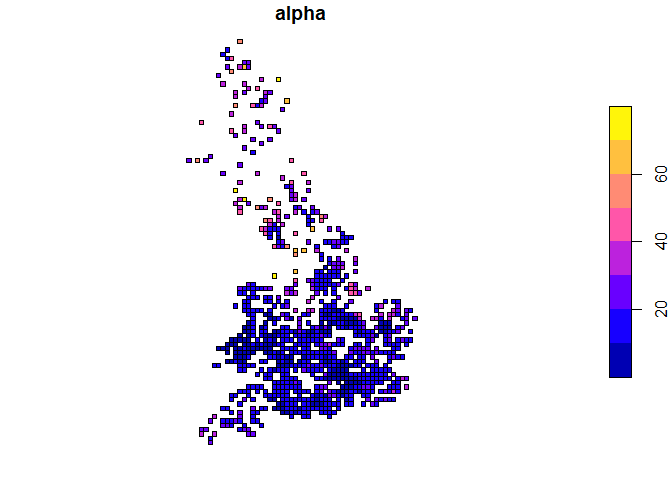
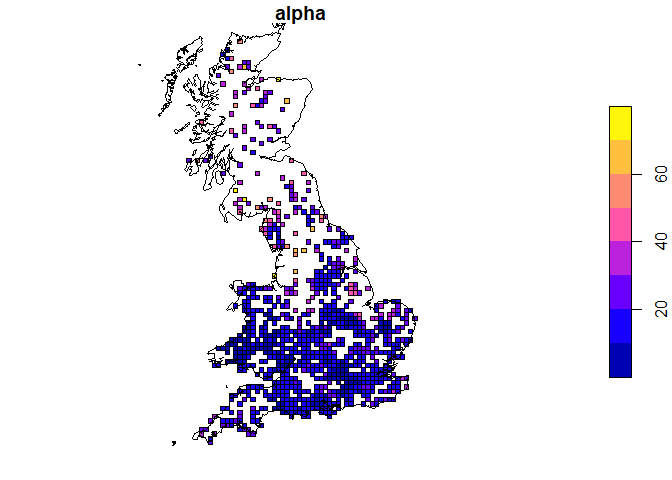
Added code to load and use GB coastline as a background layer in the maps

diff --git a/README.md b/README.md
@@ -259,6 +259,10 @@ head(out_fres[["site_time"]])
     ## 5     TR15    1 0.0000000 0.005
     ## 6     TR14    1 0.0000000 0.005
 
+The package also includes a function to plot the tFactors for a given
+species when passed the relevant rows from the trend output data.frame
+for a given species
+
 ``` r
 # Plot tFactor for a specific species
   plot_tfactor(out_fres[["trend"]][which(out_fres[["trend"]]$species == "Species 1"),])
@@ -266,24 +270,26 @@ head(out_fres[["site_time"]])
 
 ![](README_files/figure-gfm/plot_tfactor-1.png)<!-- -->
 
-``` r
-library(sf)
-```
+Similarly the package includes a function to produce basic maps of the
+location information. Note that in the example below an outline of the
+Great Britain coastline has been loaded as a spatial object and is used
+to add a background boundary layer onto which the location polygons have
+been plotted
 
-    ## Linking to GEOS 3.13.1, GDAL 3.11.0, PROJ 9.6.0; sf_use_s2() is TRUE
-
 ``` r
+# Load sf library to allow use of sf classes and functions
+  library(sf)
 # Merge location results from frescalo with spatial polygons for locations in example neighbourhoods (stored in d_locs)
   sf_locs = merge(d_locs, out_fres[["locs"]], by = "location")
 # Plot alpha
-  fres_map(sf_locs,zcol="alpha")
+  fres_map(sf_locs,zcol="alpha", over_bd = gb_outline)
 ```
 
 ![](README_files/figure-gfm/plot_alpha-1.png)<!-- -->
 
 ``` r
 # Plot estimated species richness
-  fres_map(sf_locs,zcol="spnum_out")
+  fres_map(sf_locs,zcol="spnum_out", over_bd = gb_outline)
 ```
 
 ![](README_files/figure-gfm/plot_alpha-2.png)<!-- -->
